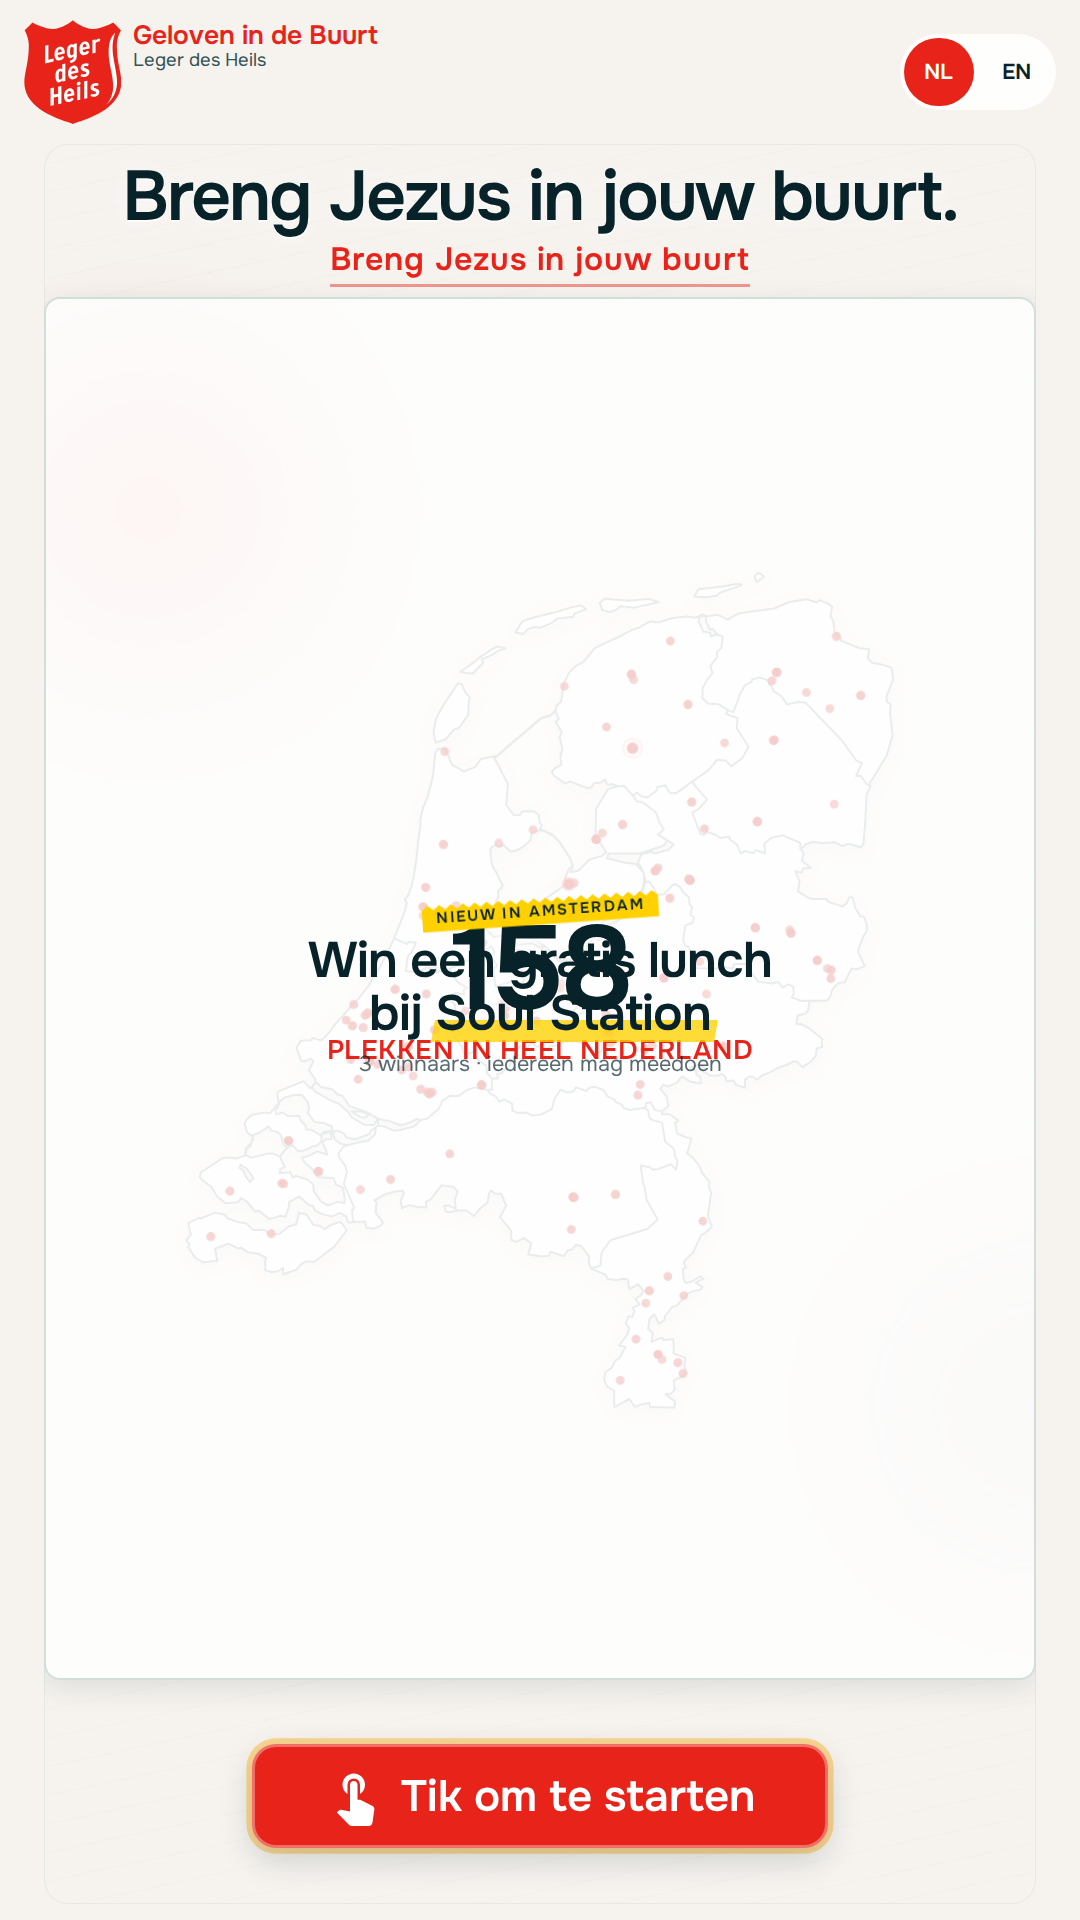
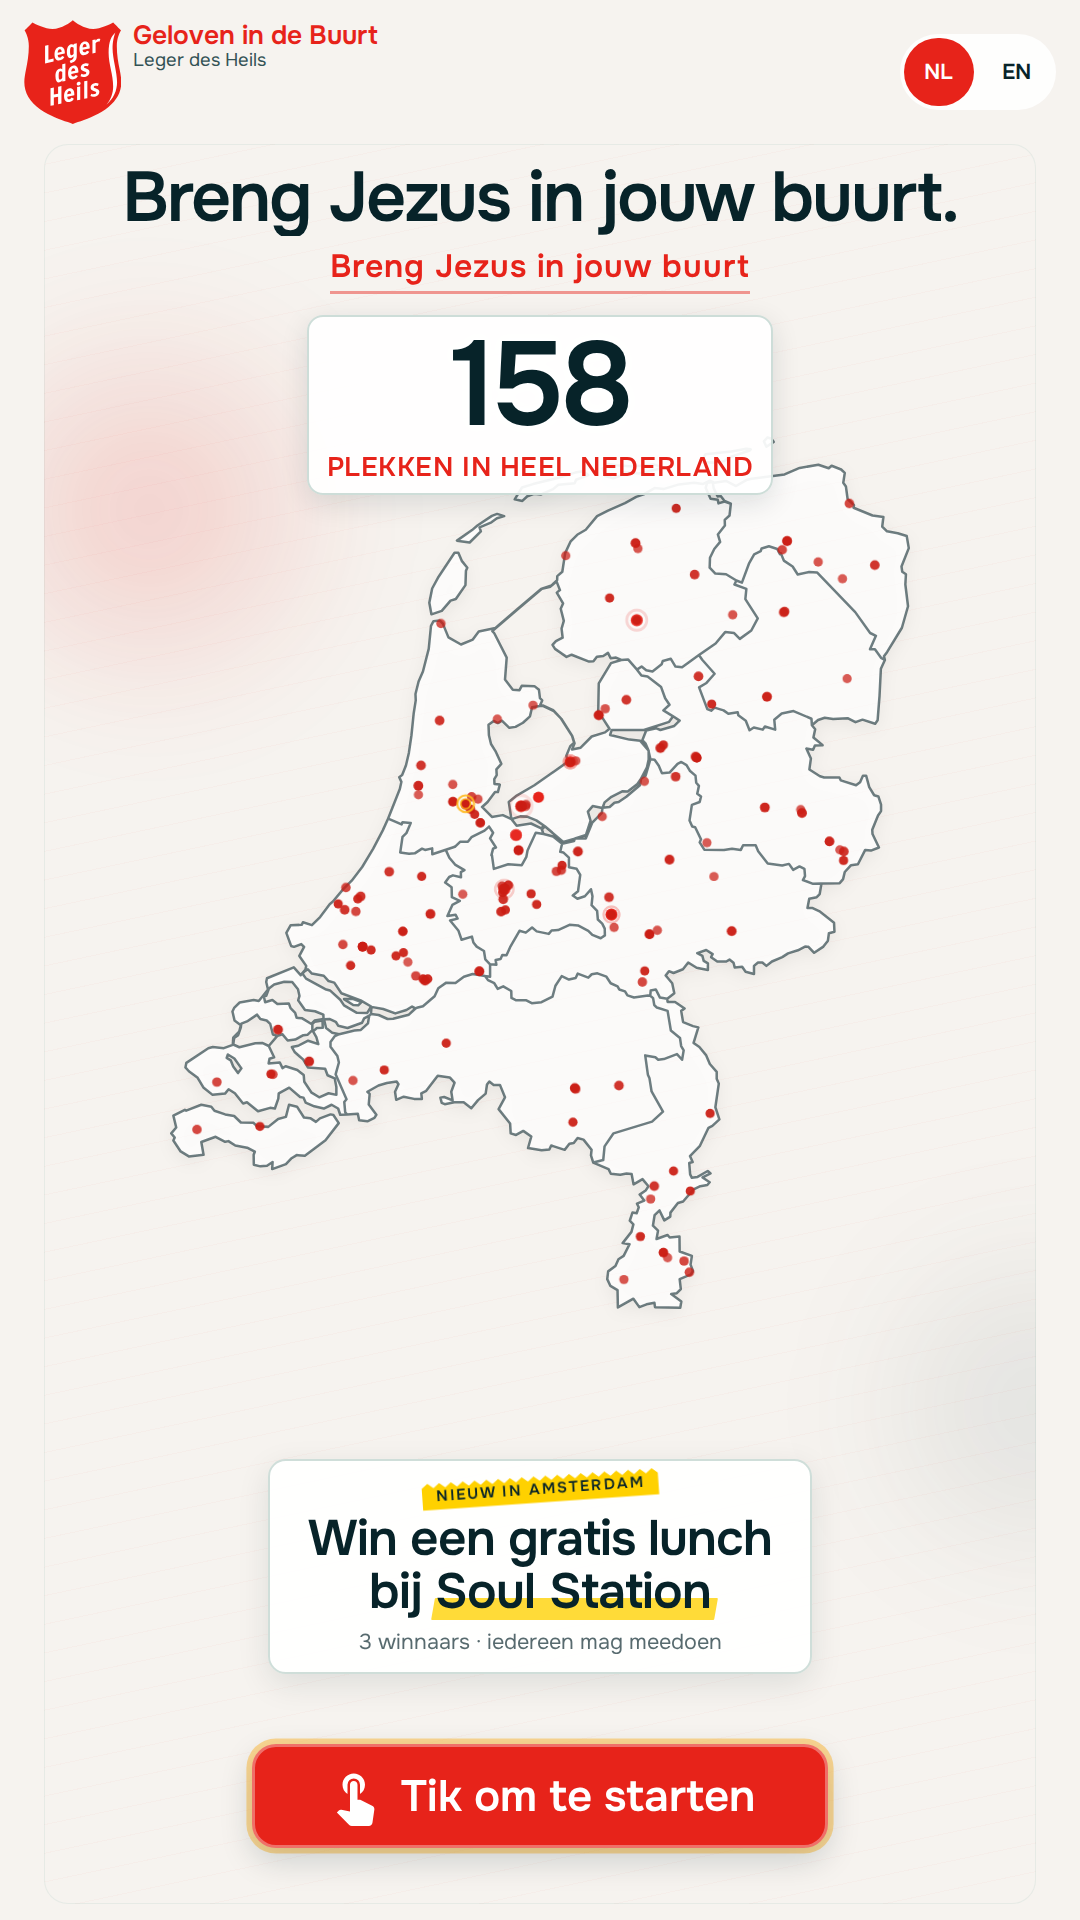
fix(buurt): separate attract counter and lunch promo layout
Stack the map stage vertically so the places counter sits as a top badge
on the map and the lunch promo lives in its own card below. Never animate
the counter through zero; show ellipsis until locations load. Improve
headline contrast, mobile line clamp, and map stroke visibility; refresh
capture artifacts at t=0.5s and after count-up.

diff --git a/src/pages/buurt/buurt-kiosk.css b/src/pages/buurt/buurt-kiosk.css
@@ -764,7 +764,7 @@
   flex: 0 0 auto;
   width: 100%;
   padding: clamp(0.35rem, 1.2cqh, 0.85rem) var(--kiosk-attract-pad-x)
-    clamp(0.25rem, 0.8cqh, 0.5rem);
+    clamp(0.35rem, 1cqh, 0.65rem);
   text-align: center;
 }
 
@@ -774,16 +774,20 @@
   flex: 1 1 auto;
   min-height: 0;
   width: 100%;
+  display: flex;
+  flex-direction: column;
+  align-items: stretch;
+  gap: clamp(0.35rem, min(1.5cqw, 1.2cqh), 0.75rem);
+  padding-bottom: clamp(0.15rem, 0.6cqh, 0.35rem);
 }
 
 .kiosk-attract-map-panel {
-  position: absolute;
+  position: relative;
   z-index: 1;
-  left: 0;
-  top: 0;
+  flex: 1 1 auto;
+  min-height: clamp(9rem, 28cqh, 22rem);
   width: 100%;
-  height: 100%;
-  padding: 0 clamp(0.35rem, 2cqw, 0.75rem);
+  padding: 0 clamp(0.25rem, 1.5cqw, 0.5rem);
   text-align: center;
 }
 
@@ -810,15 +814,15 @@
 
 .kiosk-attract-map-stroke {
   fill: none;
-  stroke: rgba(51, 82, 85, 0.45);
-  stroke-width: 2.5;
+  stroke: rgba(7, 35, 41, 0.58);
+  stroke-width: 3;
   stroke-linejoin: round;
   stroke-linecap: round;
 }
 
 .kiosk-attract-dot {
   fill: var(--kiosk-red-dark);
-  opacity: 0.82;
+  opacity: 0.94;
 }
 
 .kiosk-attract-dot--idle {
@@ -849,28 +853,27 @@
   position: absolute;
   z-index: 2;
   left: 0;
-  top: 0;
+  top: clamp(0.15rem, 1.2cqh, 0.65rem);
   width: 100%;
-  height: 100%;
   pointer-events: none;
   text-align: center;
 }
 
 .kiosk-attract-map-counter-align {
-  display: table;
-  width: 100%;
-  height: 100%;
+  display: inline-block;
+  width: auto;
+  max-width: 96%;
+  text-align: center;
 }
 
 .kiosk-attract-map-counter-card {
-  display: table-cell;
-  vertical-align: middle;
+  display: inline-block;
   text-align: center;
-  padding: clamp(0.45rem, 1.5cqw, 0.85rem) clamp(0.55rem, 2cqw, 1rem);
-  background: rgba(255, 255, 255, 0.78);
-  border: 2px solid rgba(200, 217, 212, 0.85);
+  padding: clamp(0.35rem, 1.2cqw, 0.65rem) clamp(0.5rem, 2.2cqw, 1.1rem);
+  background: rgba(255, 255, 255, 0.92);
+  border: 2px solid rgba(200, 217, 212, 0.9);
   border-radius: clamp(0.65rem, 2cqw, 1rem);
-  box-shadow: 0 8px 28px rgba(7, 35, 41, 0.1);
+  box-shadow: 0 8px 28px rgba(7, 35, 41, 0.12);
 }
 
 .kiosk-attract-map-counter-num {
@@ -895,30 +898,27 @@
   color: var(--kiosk-red);
 }
 
-.kiosk-attract-mid {
-  position: absolute;
+.kiosk-attract-lunch-wrap {
+  position: relative;
   z-index: 3;
-  left: 0;
-  top: 0;
+  flex: 0 0 auto;
   width: 100%;
-  height: 100%;
-  pointer-events: none;
-  text-align: center;
-}
-
-.kiosk-attract-mid-inner {
-  display: table;
-  width: 100%;
-  height: 100%;
-  table-layout: fixed;
-}
-
-.kiosk-attract-mid-cell {
-  display: table-cell;
-  vertical-align: middle;
-  text-align: center;
-  pointer-events: auto;
   padding: 0 var(--kiosk-attract-pad-x);
+  text-align: center;
+}
+
+.kiosk-attract-lunch-card {
+  display: inline-block;
+  width: 100%;
+  max-width: min(34rem, 100%);
+  margin: 0 auto;
+  padding: clamp(0.55rem, min(2cqw, 1.6cqh), 0.95rem)
+    clamp(0.65rem, 2.5cqw, 1.15rem);
+  text-align: center;
+  background: rgba(255, 255, 255, 0.94);
+  border: 2px solid rgba(200, 217, 212, 0.88);
+  border-radius: clamp(0.75rem, 2.2cqw, 1.1rem);
+  box-shadow: 0 10px 32px rgba(7, 35, 41, 0.1);
 }
 
 .kiosk-attract-actions {
@@ -1155,25 +1155,29 @@
   width: 100%;
   max-width: 98cqw;
   margin: 0 auto;
-  font-size: clamp(1.35rem, min(10.5cqw, 7.5cqh), 5.25rem);
+  font-size: clamp(1.2rem, min(9.2cqw, 6.8cqh), 5.25rem);
   font-weight: 900;
-  line-height: 1.05;
+  line-height: 1.08;
   letter-spacing: -0.03em;
   color: var(--kiosk-navy);
-  text-shadow:
-    0 2px 0 rgba(255, 255, 255, 0.75),
-    0 0 24px rgba(255, 255, 255, 0.45);
-  animation: kiosk-question-in 0.65s ease-out both;
+  opacity: 1;
+  text-shadow: 0 1px 0 rgba(255, 255, 255, 0.35);
+  animation: kiosk-question-in 0.28s ease-out both;
+  overflow: hidden;
+  display: -webkit-box;
+  -webkit-box-orient: vertical;
+  -webkit-line-clamp: 3;
 }
 
 .kiosk-attract-tagline {
   width: 100%;
   max-width: 96cqw;
+  margin-top: clamp(0.45rem, 1.4cqh, 0.75rem);
 }
 
 .kiosk-attract-tagline-text {
   display: inline-block;
-  margin-top: clamp(0.2rem, 0.7cqh, 0.45rem);
+  margin-top: 0;
   font-size: clamp(0.82rem, min(4.2cqw, 3cqh), 1.85rem);
   font-weight: 700;
   line-height: 1.2;
@@ -1424,7 +1428,8 @@
   }
 
   .kiosk-attract-map-panel {
-    padding: 0.25rem 5% 0;
+    padding: 0 clamp(2%, 1.5cqw, 3%) 0;
+    min-height: clamp(14rem, 42cqh, 28rem);
   }
 
   .kiosk-attract-map-center {
@@ -1433,8 +1438,8 @@
   }
 
   .kiosk-attract-map-svg {
-    width: 90%;
-    max-width: 90%;
+    width: 88%;
+    max-width: 88%;
     height: 100%;
     min-height: 0;
     display: inline-block;
@@ -1442,9 +1447,13 @@
     margin-right: auto;
   }
 
+  .kiosk-attract-stage {
+    gap: clamp(0.5rem, 2cqh, 1.1rem);
+  }
+
   .kiosk-attract-actions {
     max-width: min(42rem, 92%);
-    padding: clamp(2.5rem, 6cqh, 4rem) var(--kiosk-attract-pad-x)
+    padding: clamp(1.25rem, 3.5cqh, 2.25rem) var(--kiosk-attract-pad-x)
       clamp(2rem, 5cqh, 3.5rem);
   }
 
@@ -1913,10 +1922,21 @@
   }
 }
 
+@media (max-width: 420px) {
+  .kiosk-attract-question {
+    font-size: clamp(1.05rem, min(8.4cqw, 6.2cqh), 1.38rem);
+    line-height: 1.1;
+  }
+
+  .kiosk-attract-tagline {
+    margin-top: clamp(0.55rem, 2.2cqh, 0.9rem);
+  }
+}
+
 @keyframes kiosk-question-in {
   from {
-    opacity: 0;
-    transform: translate3d(0, 24px, 0);
+    opacity: 0.72;
+    transform: translate3d(0, 10px, 0);
   }
   to {
     opacity: 1;

diff --git a/src/pages/buurt/useCountUp.ts b/src/pages/buurt/useCountUp.ts
@@ -1,33 +1,57 @@
-import { useEffect, useState } from "react";
+import { useLayoutEffect, useState } from "react";
 
+/**
+ * Count display for attract screen. Never animates through 0 when target > 0.
+ * Returns null while target is unknown (parent shows "…").
+ */
 export function useCountUp(
-  target: number,
+  target: number | null,
   resetKey: number,
   durationMs = 900,
-): number {
-  const [value, setValue] = useState(0);
+): number | null {
+  const [value, setValue] = useState<number | null>(null);
 
-  useEffect(() => {
-    if (!Number.isFinite(target) || target < 0) {
-      setValue(0);
+  useLayoutEffect(() => {
+    if (target === null || !Number.isFinite(target)) {
+      setValue(null);
       return;
     }
 
-    const reduced = window.matchMedia("(prefers-reduced-motion: reduce)").matches;
-    if (reduced) {
+    const reduced = window.matchMedia(
+      "(prefers-reduced-motion: reduce)",
+    ).matches;
+    if (reduced || typeof window.requestAnimationFrame !== "function") {
       setValue(target);
       return;
     }
 
+    const startValue = Math.max(
+      1,
+      target - Math.min(12, Math.floor(target * 0.35)),
+    );
+    if (startValue >= target) {
+      setValue(target);
+      return;
+    }
+
+    setValue(startValue);
     let raf = 0;
     const startAt = performance.now();
-    setValue(0);
 
     const tick = (now: number) => {
       const progress = Math.min(1, (now - startAt) / durationMs);
-      setValue(Math.round(target * progress));
+      const next = Math.max(
+        startValue,
+        Math.min(
+          target,
+          Math.round(startValue + (target - startValue) * progress),
+        ),
+      );
+      setValue(next);
       if (progress < 1) {
         raf = window.requestAnimationFrame(tick);
+      } else {
+        setValue(target);
       }
     };
 

diff --git a/src/pages/buurt/AttractScreen.tsx b/src/pages/buurt/AttractScreen.tsx
@@ -51,9 +51,16 @@ function MapPlacesCounter({
   cycleKey: number;
 }) {
   const numeric =
-    typeof count === "number" && Number.isFinite(count) ? count : null;
-  const animated = useCountUp(numeric ?? 0, cycleKey);
-  const display = numeric === null ? count : animated;
+    typeof count === "number" && Number.isFinite(count) && count > 0
+      ? count
+      : null;
+  const animated = useCountUp(numeric, cycleKey);
+  const display =
+    numeric === null
+      ? typeof count === "string"
+        ? count
+        : "…"
+      : (animated ?? numeric);
   const suffix = template.replace("{count}", "").trimStart();
 
   return (
@@ -217,9 +224,8 @@ export function AttractScreen({
           />
         </div>
 
-        <div className="kiosk-attract-mid">
-          <div className="kiosk-attract-mid-inner">
-            <div className="kiosk-attract-mid-cell">
+        <div className="kiosk-attract-lunch-wrap">
+          <div className="kiosk-attract-lunch-card">
             <AttractLunchPromo
               tapeLabel={lunchTapeLabel}
               headlineLine1={lunchHeadline1}
@@ -228,7 +234,6 @@ export function AttractScreen({
               finePrint={lunchFinePrint}
               onActivate={onLunchPromo}
             />
-            </div>
           </div>
         </div>
       </div>

diff --git a/src/pages/buurt/BuurtKioskPage.tsx b/src/pages/buurt/BuurtKioskPage.tsx
@@ -473,7 +473,7 @@ function BuurtKioskApp() {
             lunchHeadline2Prefix={m.attractLunchHeadline2Prefix}
             soulStationName={m.soulStationName}
             lunchFinePrint={m.attractLunchFinePrint}
-            placesCount={locations.length || "…"}
+            placesCount={locations.length > 0 ? locations.length : "…"}
             placesCountTemplate={m.attractPlacesCount}
             locations={locations}
             onStart={() => go("choose")}
